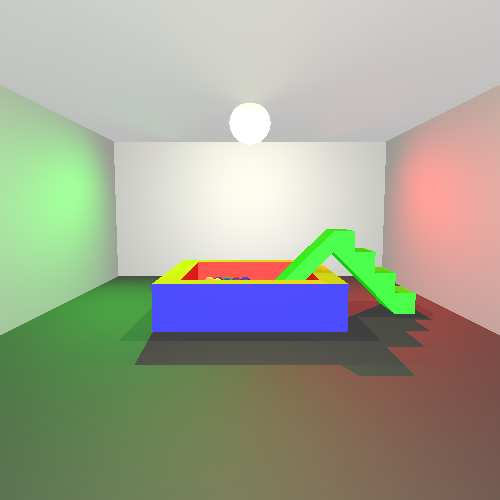
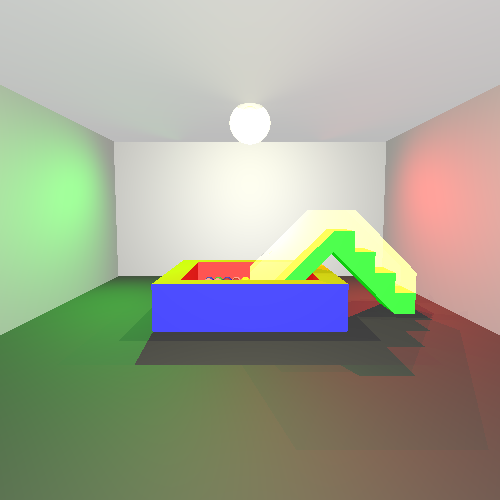
railing slide

Changed region(s): [[0.42, 0.42, 0.84, 0.6], [0.78, 0.63, 0.87, 0.75]]

diff --git a/unitTests/renderer/FinalTest.java b/unitTests/renderer/FinalTest.java
@@ -19,19 +19,7 @@ import java.util.Random;
 import static java.awt.Color.*;
 
 public class FinalTest {
-    //static private Point
-            //p1 = new Point(0, 0, -1.3),
-            //p2 = new Point(1, 0, -1.3),
-            //p3 = new Point(0, 0, 0),
-            //p4 = new Point(1, 0, 0),
-            //p5 = new Point(0, -1, -1.3),
-            //p6 = new Point(1, -1, -1.3);
-    //static private Material material = new Material().setKd(0.5).setKs(0.5).setShininess(300);
-    //static private Color color = new Color(RED);
-    //List<primitives.Color> colors = new LinkedList<primitives.Color>();
-
-    //colors.Add(new Color(YELLOW), new Color(GREEN), new Color(RED), new Color(BLUE));
-    class Rec extends Geometries {
+     class Rec extends Geometries {
         Rec(Point p1, Point p2, Point p3, Point p4, Color emission, Material material) {
             super(new Triangle(p1, p2, p3).setEmission(emission).setMaterial(material),
                     new Triangle(p1, p4, p3).setEmission(emission).setMaterial(material));
@@ -79,7 +67,7 @@ public class FinalTest {
     }
 
     class Slide extends Geometries{
-        Slide(Point center, Material material)
+        Slide(Point center, Material material, Material railM)
         {
             super();
             Point br1 = center.add(new Vector(40,-10,0))
@@ -112,12 +100,18 @@ public class FinalTest {
                     ,so2 = center.add(new Vector(20, 10, 20))
                     ,si3 = center.add(new Vector(10, -10, 30))
                     ,so3 = center.add(new Vector(10, 10, 30));
+            Point r1 = center.add(new Vector(10,-10, 50))
+                    ,r2 = center.add(new Vector(10,10, 50))
+                    ,r3 = center.add(new Vector(-10,10, 50))
+                    ,r4 = center.add(new Vector(-10,-10, 50))
+                    ,rr1 = center.add(new Vector(40,-10, 20))
+                    ,rr2 = center.add(new Vector(40,10, 20))
+                    ,rl1 = center.add(new Vector(-40,-10, 20))
+                    ,rl2 = center.add(new Vector(-40,10, 20));
             Color green = new Color(10, 200, 10);
             Color blue = new Color(10,10,200);
             Color yellow = new Color(180,180,0);
             super.add(new Rec(br1, br2, br3, br4, green, material)
-                    //,new Rec(br1, br2, u2, u1, red, material)
-                    //,new Rec(br2, u2, b2, br3, red, material)
                     ,new Rec(br4,br3,b2,b1,green,material)
                     ,new Rec(br4,br1,u1,b1,green,material)
                     ,new Rec(b1,b2,u2,u1,green,material)
@@ -142,15 +136,22 @@ public class FinalTest {
                     ,new Triangle(u2, s42, so3).setEmission(green).setMaterial(material)
                     ,new Rec(s41, s42, u2, u1, green, material)
 
-                    //,new Rec(b1, b2, b3, b4, green, material)
-                    //,new Rec(b1, u1, u4, b4, green, material)
-                    //,new Rec(u1, u2, u3, u4, green, material)
-                    //,new Rec(u2, b2, b3, u3, green, material)
                     ,new Rec(bl1, bl2, bl3, bl4, green, material)
                     ,new Rec(bl1, bl2, b3, b4, green, material)
                     ,new Rec(bl1, b4, u4, bl4, green, material)
                     ,new Rec(bl4, bl3, u3, u4, green, material)
-                    ,new Rec(bl2, b3, u3, bl3, green, material));
+                    ,new Rec(bl2, b3, u3, bl3, green, material)
+
+                    ,new Rec(b1,r1,rr1,br4,yellow, railM)
+                    ,new Triangle(br4, rr1, br1).setEmission(yellow).setMaterial(railM)
+                    ,new Rec(b2, r2, rr2, br3, yellow, railM)
+                    ,new Triangle(br3, rr2, br2).setEmission(yellow).setMaterial(railM)
+                    ,new Rec(b1, r4, rl1, bl1, yellow, railM)
+                    ,new Triangle(bl4, rl1, bl1).setEmission(yellow).setMaterial(railM)
+                    ,new Rec(b2, r3, rl2, bl2, yellow, railM)
+                    ,new Triangle(bl3, rl2, bl2).setEmission(yellow).setMaterial(railM)
+                    ,new Triangle(r4, r1, b1).setEmission(yellow).setMaterial(railM)
+                    ,new Triangle(r3, r2, b2).setEmission(yellow).setMaterial(railM));
 
         }
     }
@@ -277,23 +278,6 @@ public class FinalTest {
 
     @Test
     public void jimbory() {
-        //Point b1 = center.add(new Vector(-40, -40, 0))
-        //        ,b2 = center.add(new Vector(40, -40, 0))
-        //        ,b3 = center.add(new Vector(40, 40, 0))
-        //        ,b4 = center.add(new Vector(-40, 40, 0));
-        //Point u1 = center.add(new Vector(-40, -40, 20))
-        //        ,u2 = center.add(new Vector(40, -40, 20))
-        //        ,u3 = center.add(new Vector(40, 40, 20))
-        //        ,u4 = center.add(new Vector(-40, 40, 20));
-        //Point bi1 = center.add(new Vector(-30, -30, 2))
-        //        ,bi2 = center.add(new Vector(30, -30, 2))
-        //        ,bi3 = center.add(new Vector(30, 30, 2))
-        //        ,bi4 = center.add(new Vector(-30, 30, 2));
-        //Point ui1 = center.add(new Vector(-30, -30, 20))
-        //        ,ui2 = center.add(new Vector(30, -30, 20))
-        //        ,ui3 = center.add(new Vector(30, 30, 20))
-        //        ,ui4 = center.add(new Vector(-30, 30, 20));
-
         Color wallE = new Color(GRAY);
         Color red = new Color(200, 10, 10);
         Color blue = new Color(10,10,200);
@@ -301,6 +285,7 @@ public class FinalTest {
 
         Material wallM = new Material().setKd(0.5).setKs(0.5).setShininess(5);
         Material poolM = new Material().setKd(0.7).setKs(0.8).setShininess(150);
+        Material railM = new Material().setKd(0.7).setKs(0.8).setShininess(50).setKt(0.75);
 
         Point lightPlace=new Point(0, 0,96);
 
@@ -315,33 +300,16 @@ public class FinalTest {
         scene.geometries.add(new Plane(new Point(0, 0, 0), new Vector(0, 0, 1)).setEmission(new Color(50,50,50)).setMaterial(wallM));
         scene.geometries.add(new Plane(new Point(0, 0, 100), new Vector(0, 0, -1)).setEmission(new Color(180,180,180)).setMaterial(wallM));
 
-        scene.geometries.add(new BallsPool(new Point(0,0,0), poolM));
-        //scene.geometries.add(new Slide(new Point(0,0,0), poolM));
+        //scene.geometries.add(new BallsPool(new Point(0,0,0), poolM));
         scene.geometries.add(new BallsGrid(new Point(28,28,3), new Vector(-1,0,0), new Vector(0,-1,0), 11,11, 2.5, poolM));
         scene.geometries.add(new BallsGrid(new Point(25.5,25.5,6.25), new Vector(-1,0,0), new Vector(0,-1,0), 10,10, 2.5, poolM));
         scene.geometries.add(new BallsGrid(new Point(0,23,10.5), new Vector(-1,0,0), new Vector(0,-1,0), 5,8, 2.5, poolM));
         //scene.geometries.add(new BallsGrid(new Point(40,40,25), new Vector(-1,0,0), new Vector(0,-1,0), 2,2, 10, poolM));
         scene.geometries.add(new BallsPool(new Point(0,0,0), poolM));
-        scene.geometries.add(new Slide(new Point(40,0,0), poolM));
+        scene.geometries.add(new Slide(new Point(40,0,0), poolM, railM));
         scene.geometries.add(new Sphere(lightPlace, 4).setEmission(yellow).setMaterial(new Material().setKd(0.5).setKs(0.5).setShininess(50).setKt(0.85)));
         scene.geometries.add(new Sphere(lightPlace.subtract(new Vector(0,0,4)), 10).setEmission(new Color(50,50,35)).setMaterial(new Material().setKd(0.5).setKs(0.5).setShininess(50).setKt(0.9)));
 
-        //scene.geometries.add(new Rec(b1, b2, b3, b4, blue, poolM));
-        //scene.geometries.add(new Rec(b1, b2, u2, u1, blue, poolM));
-        //scene.geometries.add(new Rec(b3, b2, u2, u3, blue, poolM));
-        //scene.geometries.add(new Rec(b3, b4, u4, u3, blue, poolM));
-        //scene.geometries.add(new Rec(b1, b4, u4, u1, blue, poolM));
-        //
-        //scene.geometries.add(new Rec(bi1, bi2, bi3, bi4, new Color(ORANGE), poolM));
-        //scene.geometries.add(new Rec(u1, u2, ui2, ui1, yellow, poolM));
-        //scene.geometries.add(new Rec(u3, u2, ui2, ui3, yellow, poolM));
-        //scene.geometries.add(new Rec(u3, u4, ui4, ui3, yellow, poolM));
-        //scene.geometries.add(new Rec(u1, u4, ui4, ui1, yellow, poolM));
-        //
-        //scene.geometries.add(new Rec(ui1, ui2, bi2, bi1, red, poolM));
-        //scene.geometries.add(new Rec(ui3, ui2, bi2, bi3, red, poolM));
-        //scene.geometries.add(new Rec(ui3, ui4, bi4, bi3, red, poolM));
-        //scene.geometries.add(new Rec(ui1, ui4, bi4, bi1, red, poolM));
 
         scene.lights.add(new SpotLight(new Color(RED), new Point(50,99, 99), new Vector(50,-99,-100)).setNarrowBeam(5).setKl(0.0001).setKq(0.00001));
         scene.lights.add(new SpotLight(new Color(GREEN), new Point(-50,99, 99), new Vector(-50,-99,-100)).setNarrowBeam(5).setKl(0.0001).setKq(0.00001));
